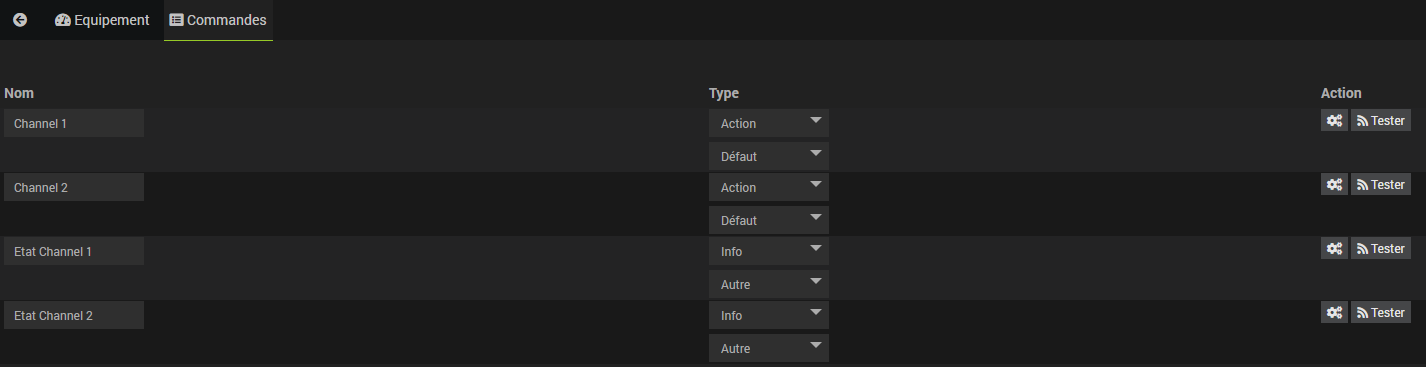
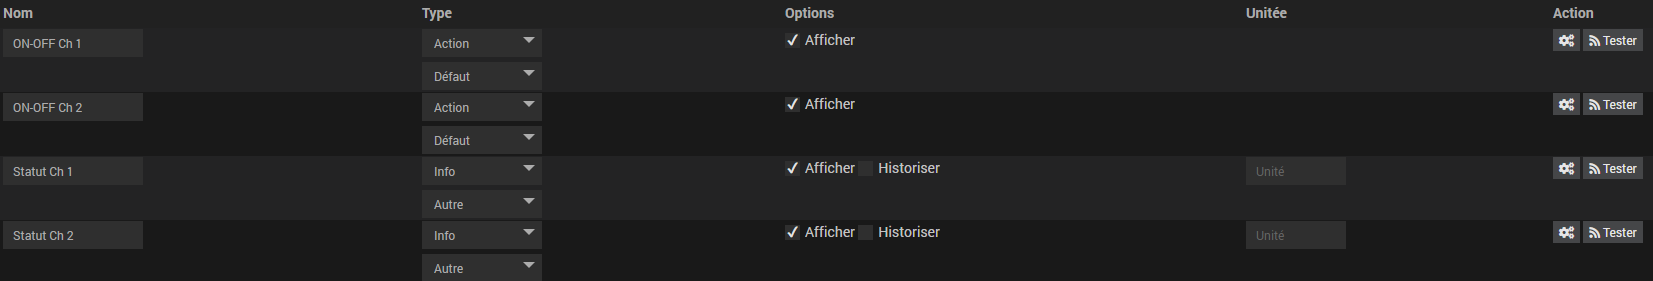
V1.1.1

diff --git a/docs/fr_FR/index.md b/docs/fr_FR/index.md
@@ -1,9 +1,11 @@
 
 eWeJee
 ==============================
-MAJ V1.1 (Beta)
-Attention il faut faire l'instalation des dependances (Attendre 5 à 10 minutes), supprimer tous vos equipements et refaire une synchronisation !
-Dans cet ordre precis !
+
+### <i class="far fa-exclamation-triangle"></i> MAJ V1.1 (Beta) ###
+
+# Attention, si vous passer à la version V1.1 il faut faire l'instalation des dependances (Attendre 5 à 10 minutes), supprimer tous vos equipements et refaire une synchronisation !
+# Dans cet ordre precis !
 
 Description
 -----------
@@ -15,7 +17,8 @@ Grace à un bouton de synchronisation, un clic et tout vous équipements sont im
 >
 > Le pugin passe par le cloud eWeLink
 
-> ** IMPORTANT **
+> **IMPORTANT**
+> 
 > eWeLink n'accepte qu'une seul connexion par compte, donc dès que vous lancer le plugin, cela va déconnecter votre smartphone.
 > Pour palier à cela, il est conseillé de faire une compte eWeLink pour Jeedom, vous pouvez partager vos équipements entre compte
 > eWeLink.
@@ -54,7 +57,7 @@ Si vous avez le méssage "Echec d'authentification, veillez vérifier vos identi
 - Le mot de passe ne peut pas contenir de signe "$".
 - Vérifiez vos identifants, le login doit etre l'adresse mail utilisé dans l'aplication eWeLink.
 - Si vos identifiants sont correct, vérifiez que le démon est bien lancé et que les dépendances sont "OK".
-- Regardez les log "eWeJee_node" dans la section "Logs et surveillance", les dernières lignes vous indique l'érreur, si vous ne la comprenez pas, contactez moi sur community.
+- Regardez les log "eWeJee_node" dans la section "Logs et surveillance", les dernières lignes vous indique l'érreur, si vous ne la comprenez pas, contactez moi sur community ou GitHub.
 
 
 Le plugin
@@ -79,6 +82,7 @@ Gestion
 Dans la partie gestion vous avez :
 -	Synchroniser : Ce bouton sert à synchroniser tous les équipements de l'application eWeLink.
 > **Info**
+> 
 >	Une détection des equipements déjà connus à été ajouté, donc plus besoin de tout supprimer.
 >	Si vous avez un equipement à acutaliser, supprimer le.
 -	Configuration : Pour voir la configuration du plugin…
@@ -104,6 +108,7 @@ Dans l’onglet équipement vous retrouver :
 ![onglet_equip](../images/onglet_equip.png)
 
 > **Important**
+> 
 > Le nom de l’équipement ne doit pas être changé il doit correspondre au nom que vous avez dans l’application.
 > La case de commentaire peut-être utilisé comme vous le souhaitez, cela vous permet de mettre un commentaire à votre équipement.
 
@@ -114,43 +119,60 @@ Vous avez une commande action par « band » (Channel, cannal) qui effectue un "
 Vous avez plusieurs moyens de metre à jour les commandes info : 
 
 - La mise a jour se fait automatiquement dès qu'un changement d'état est éffectué (même en allumant un interrupteur sans passer par l'appli ou le plugin par exemple)
-- Vous povuez mettre à jour manuellement avec le bouton suivant : 
-
-![btn_update](../images/btn/update)
+- Une mise à jour automatique est prévu toute les heures.
+- Pour les relais utilisé en "contact sec", l'état de change pas car celui-ci envoi un "push" sur le relai.
 
 > **Info**
+> 
 > Il est normal de voir plusieurs channel et etat même si votre equipement n'a qu'un channel, car dans la synchronisation 
 > on récupère tous les paramètres et sonoff a 4 paramètres, et ceci même pour les equipements qui n'en ont qu'un seul.
-> Vous pouvez suprimmer ceux qui sont en trop.
+> Vous pouvez suprimmer ceux qui sont en trop, sauf si le nom est "Ne pas suppr.", dans ce cas cet équipement est obligatoire pour le fonctionnement, vous pouvez décocher la case "Afficher" pour l'enlever.
+
+Commandes 
+----------
 
 ![onglet_cmd_switch2](../images/onglet_cmd_switch2.png)
 
-Pour les relais utilisé en "contact sec", l'état de change pas car celui-ci envoi un "push" sur le relai.
+- Nom : Le nom de ton équipement (Modifiable).
+- Type : Le type de commande.
+- Options : Permet d'afficher ou de cacher la commande, et d'historiser les commandes info.
+- Unitée : Permet de mettre une unitée (°C, %...).
+- Action : Acces à la configuration de la commande, ou du test.
 
 Compatibilitée
 =========
 
-Ce plugin est à ces débuts et pour pouvoir ajouter des équipements qui ne sont pas prévus, ou qui ne fonctionnent pas, il faut m'envoyer le fichier sync.json qui se trouve dans le dossier plugins/ewejee/core/js/sync.json
+Le plugin est fait de façon a être compatible avec la majorité des équipements.
+Une adaptation doit être faites pour certains équipements, comme par exemple l'ifan.
 
-> **Important**
->	Ce fichier contient toutes les données que eWeLink possède, soit votre IP publique, l'apikey etc... 
->   Je n'ai pas besoin de ces informations personnels, donc vous pouvez ouvrir ce fichier avec un éditeur de texte pour supprimer ces données.
+Voici la liste des équipements compatible à 100% :
 
-Vous pouvez l'envoyer à l'adresse mail suivante : wn68320@gmail.com
+Sonoff : 
+=======
 
-Je pourrais alors adapter le code afin de le rendre compatible.
+- [x] ifan02/ifan03
+- [x] TH10/TH16
+- [x] Basic R2
+- [x] Basic R3
+- [x] Dual R2
+- [x] Mini
+- [x] POWR2
+- [x] 4CHR2/PROR2
+- [x] IW100/101
+- [x] TX SWITCH
+- [x] S20
+- [x] S26
+- [x] S31
+- [x] S55
+- [ ] 433 RF Bridge (J'ai besoin de bêta testeur)
+- [x] Relais DIY
 
-Si vous avez des questions, surtout n'hésitez pas à me contacter, le mieux est par mail que je consulte régulièrement.
+Si votre "quipement n'est pas dans la liste, cela ne veut pas dire qu'il ne sera pas supporté par le plugin, cette liste est celle des équipements testé.
 
-
+Si vous remarque qu'un de vos équipements n'est pas fonctionnel ou ne fonctionne pas correctement, vous pouvez me contacter sur GitHub (de préférence).
 
 Changelog
 =========
 
 Changelog détaillé :
 <https://github.com/foulek57/jeedom-ewejee/blob/master/docs/fr_FR/changelog.md>
-
-Liste des équipements compatibles à 100%
-=================================
-
-<http://www.google.com>

diff --git a/docs/fr_FR/changelog.md b/docs/fr_FR/changelog.md
@@ -1,37 +1,54 @@
 # Changelog
 
-- 17/11/2019 : V1.1 (MISE A JOUR DES DEPENDANCES OBLIGATOIRE !! + Resynchronisation obligatoire )
-	- Ajout d'une API pour la mise a jour des états en temps réel.
-	- Ajout de la mise à jour de l'état quand il est changé hors plugin.
-	- Refonte complete du script, passage en POO pour une meilleur gestion du moteur du plugin.
-	- Refonte complete du serveur : 
-	- Ajout de la région en 'eu' (Pour etre informé d'un changement d'état).
-	- Ajout d'une détéction en cas de déconnexion au serveur eWeLink.
-	- Ajout de l'envoi des données en format JSON vers Jeedom.
-	- Fermeture de la connextion eWeLink lors du redémarage du démon (Sinon on reçois les infos plusieurs fois)
-	- Ajout d'un ping et réponse au pong de eWeLink afin de garder la connexion ouverte.
-	- Mise à jour du script d'installation des dépendances.
-	- Ajout de la remonté de : 
-	- Température
-	- Humiditée
-	- Ampères
-	- Voltage
-	- POW
-	- Ajout de oa compatibilitée des ifan02 et ifan03
+
+
+- --/--/---- : V1.1.2 (Beta)
+	- [ ] Mise en place d'une fonction de traitement d'alèrtes (date et heure)
+
+- --/--/---- : Passage de la V1.1.1 en stable.
+
+- 19/11/2019 : V1.1.1 (Bêta)
+	- [x] Ajout de la reconaissance du modèle.
+	- [x] Ajout d'un cron15 pour une mise à jour (Toutes les 15 minutes pour la bêta, passage a 1h ulterieurement).
+	- [x] Correction du bug de duplication de serveur lorsque la connection est intérompu par l'utilisateur quui se connecte sur l'aplication eWeLink.
+	- [x] Ajustement des commandes pour l'ifan02 et 03.
+	- [x] Mise à jour de la documentation.
+	- [x] Ajout d'options pour les commandes (Historiser, afficher, masquer...).
+	- [x] Correction case "commentaire".
+  
+
+- 17/11/2019 : V1.1 (Bêta) (MISE A JOUR DES DEPENDANCES OBLIGATOIRE !! + Resynchronisation obligatoire )
+	- [x] Ajout d'une API pour la mise a jour des états en temps réel.
+	- [x] Ajout de la mise à jour de l'état quand il est changé hors plugin.
+	- [x] Refonte complete du script, passage en POO pour une meilleur gestion du moteur du plugin.
+	- [x] Refonte complete du serveur : 
+	- [x] Ajout de la région en 'eu' (Pour etre informé d'un changement d'état).
+	- [x] Ajout d'une détéction en cas de déconnexion au serveur eWeLink.
+	- [x] Ajout de l'envoi des données en format JSON vers Jeedom.
+	- [x] Fermeture de la connextion eWeLink lors du redémarage du démon (Sinon on reçois les infos plusieurs fois)
+	- [x] Ajout d'un ping et réponse au pong de eWeLink afin de garder la connexion ouverte.
+	- [x] Mise à jour du script d'installation des dépendances.
+	- [x] Ajout de la remonté de : 
+	- [x] Température
+	- [x] Humiditée
+	- [x] Ampères
+	- [x] Voltage
+	- [x] POW
+	- [x] Ajout de oa compatibilitée des ifan02 et ifan03
 
 - Sortie stable
 - Beta V0.0.1
-	Nouvelle façon d'importer les équipements.
-	Ajout de tout les paramètres d'un sonoff dans les commandes.
-	Récupération du nom des channels (en test...).
-	Ajout d'une case de commentaire dans chaques équipements.
-	Compatibilitée avec la quasi totalitée des interrupteurs sonoff.
-	Amélioration visuelle.
-	Amélioration du temps de réponse.
-	Amélioration du système de rafraichissement des informations/Widget.
-	Amélioration de l'installation des dépendances
-	Ajustement du sous type "info" -> "Autre".
-	Optimisation du demon.
+	- [x] Nouvelle façon d'importer les équipements.
+	- [x] Ajout de tout les paramètres d'un sonoff dans les commandes.
+	- [x] Récupération du nom des channels (en test...).
+	- [x] Ajout d'une case de commentaire dans chaques équipements.
+	- [x] Compatibilitée avec la quasi totalitée des interrupteurs sonoff.
+	- [x] Amélioration visuelle.
+	- [x] Amélioration du temps de réponse.
+	- [x] Amélioration du système de rafraichissement des informations/Widget.
+	- [x] Amélioration de l'installation des dépendances
+	- [x] Ajustement du sous type "info" -> "Autre".
+	- [x] Optimisation du demon.
 - 12/10/2019 Amélioration du retour d'etat et ajout doc en Allemand et Anglais
 - 12/10/2019 Passage en version Beta
 - 07/09/2019 Version Alpha
